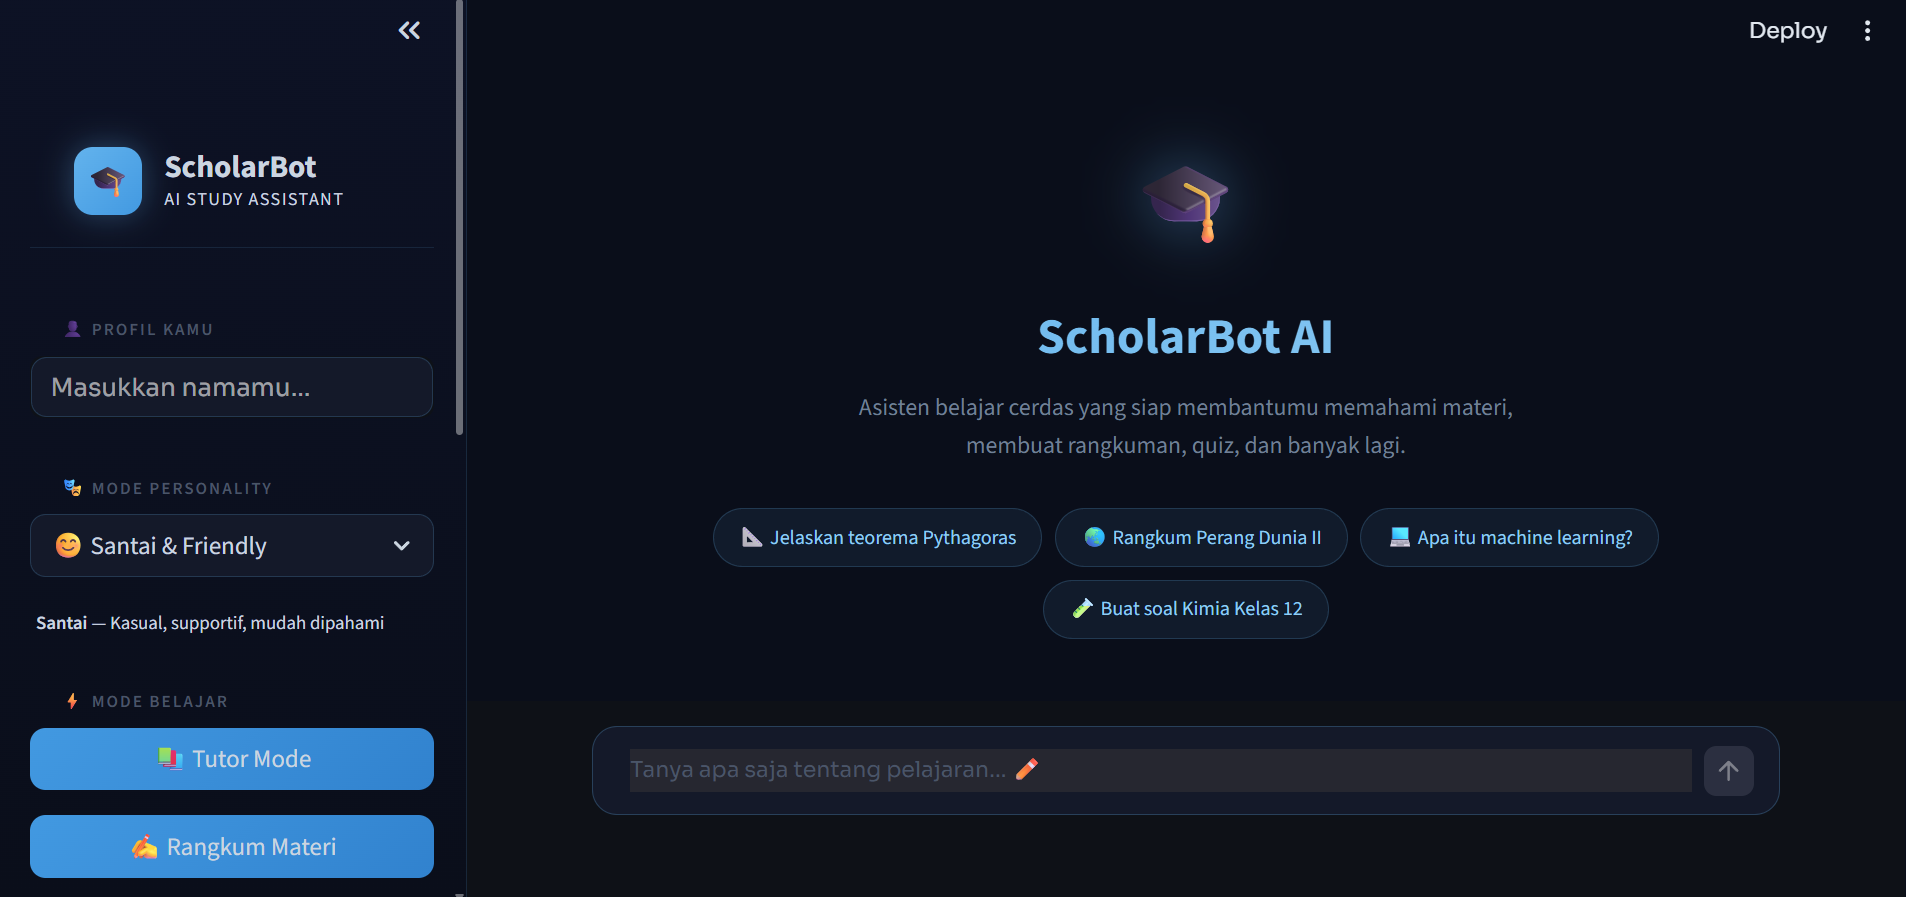
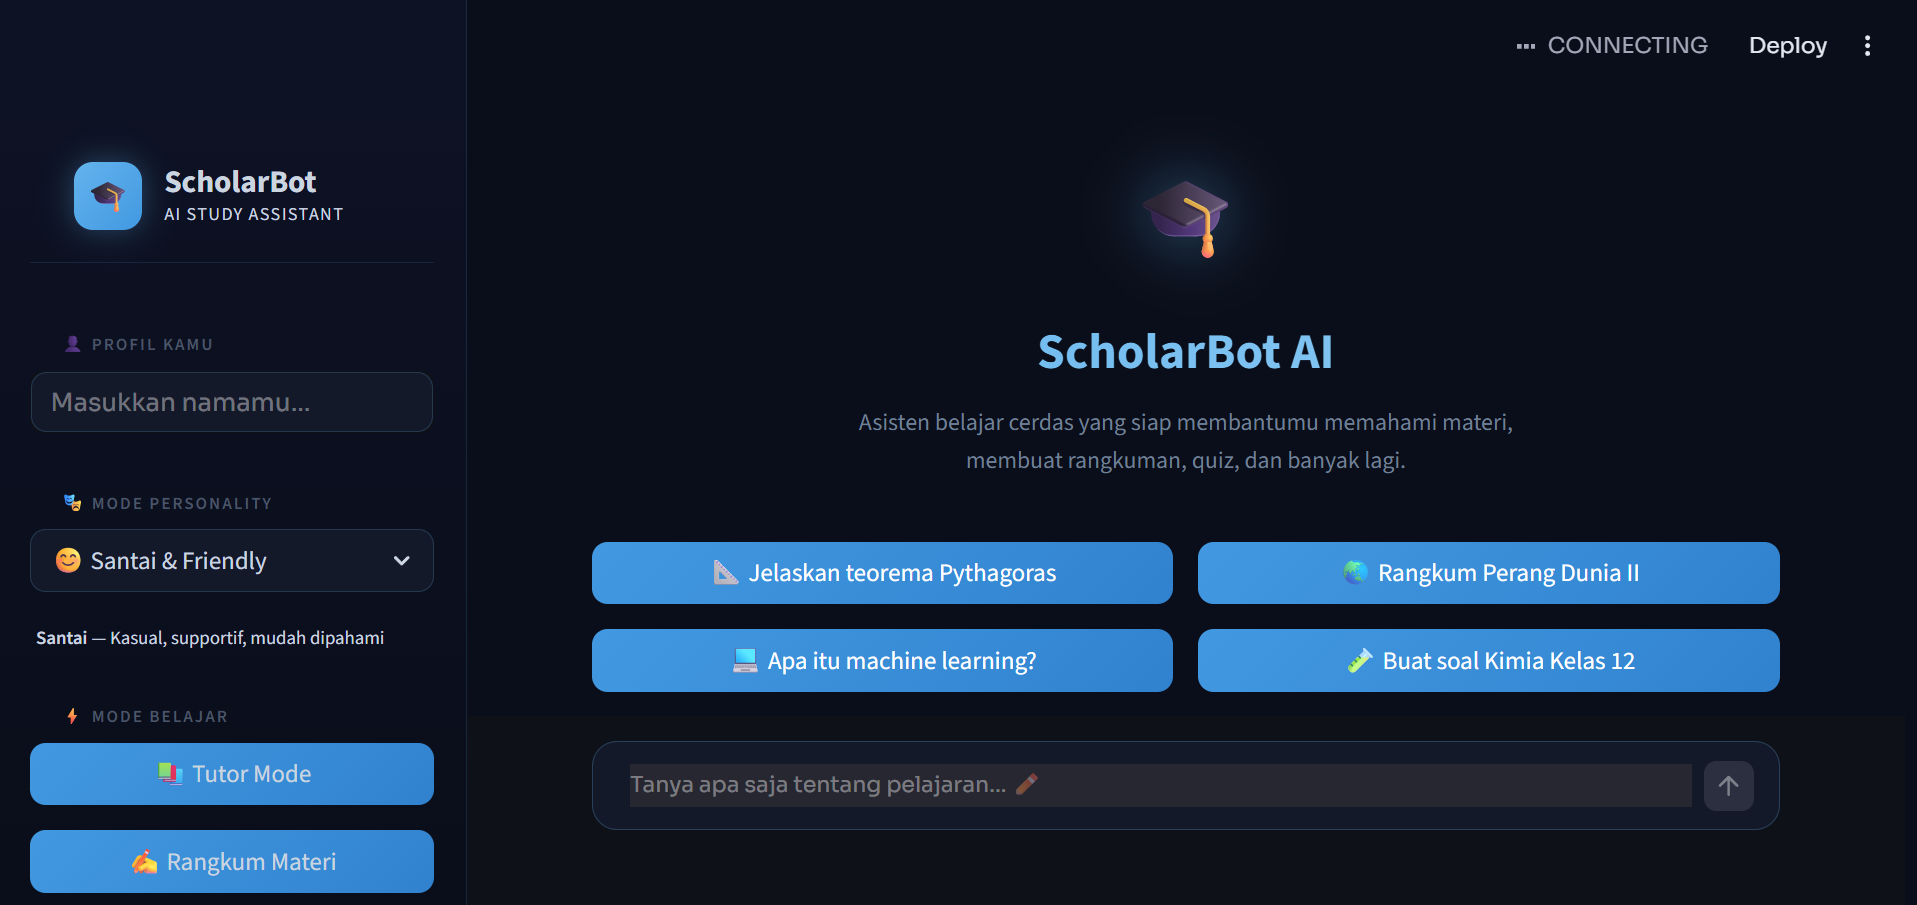
release(v3): stable ScholarBot AI lightweight educational RAG system
## Overview
Final stable release of ScholarBot AI v3 — Lightweight RAG Edition.
All v1→v2→v3 evolution merged into main branch.

## What's Included (v1 → v3 Journey)
- Modular architecture (config, core, prompts, services, storage, ui, utils)
- Groq API + Llama 3.3 70B integration
- Conversational memory with context tracking
- 4 Personality Modes + 5 Learning Modes
- v3 RAG Pipeline: document upload (.txt/.pdf), chunking, keyword retrieval
- Bug fixes: document deletion lifecycle, RAG injection logic

## README Updates
- Target pengguna & user value storytelling sections
- Developer section (Herald Michain Samuel Theo)
- Future roadmap (v3.2 → v4.0)
- Professional final-release documentation

## Security
- .env excluded from git (contains API key — local only)
- .gitignore includes .env, storage/data/, __pycache__
- No hardcoded credentials in codebase

## Files
- 30 files changed, 3,814 insertions, 612 deletions
- New: config/, core/, prompts/, services/, storage/, ui/, utils/
- Fast-forward merge from dev-v3 (no conflicts)

Refs: main stable release — ScholarBot AI v3.1 Lightweight RAG Edition

diff --git a/README.md b/README.md
@@ -106,6 +106,42 @@ Didesain dengan arsitektur **LLM-based NLP System** menggunakan Groq API + Llama
 
 ---
 
+## 🎯 Target Pengguna
+
+ScholarBot AI dirancang untuk siapa saja yang ingin belajar secara lebih cerdas dan interaktif.
+
+**Siswa SMA** yang ingin memahami materi pelajaran dengan cara yang lebih menarik dari textbook — bisa minta penjelasan ulang, buat soal latihan, atau upload catatan dari guru.
+
+**Mahasiswa** yang menghadapi materi kompleks di semester awal dan butuh AI tutor yang bisa diajak diskusi, jelasin konsep berulang kali tanpa judgment, dan bantu rangkum bahan ajaran.
+
+**Self-learner** yang belajar secara mandiri dari kursus online, buku, atau dokumen — upload materi dari internet, terus tanya langsung ke chatbot tanpa perlu buka banyak tab.
+
+**Pengguna yang butuh AI tutor interaktif** — bukan sekadar search engine, tapi bisa diajak ngobrol dua arah, dikasih soal, minta pembahasan, dan terus lanjut dari mana mereka berhenti.
+
+ScholarBot bukan pengganti guru atau buku. Tapi bisa jadi companion yang selalu tersedia kapan pun kamu butuh bantuan belajar.
+
+---
+
+## 💡 Bagaimana ScholarBot AI Membantu Pengguna
+
+ScholarBot AI dirancang untuk membuat proses belajar terasa lebih natural dan efektif.
+
+**Memahami dengan Cara Sendiri** — Kamu bisa tanya pakai bahasa sehari-hari, tanpa harus rumusin pertanyaan dalam format akademis. объясняет materi pakai kata-kata yang kamu pahami, bukan definisi dari kamus.
+
+**Latihan Tanpa Batas** — Butuh tambahan soal untuk persiapan ujian? ScholarBot bisa generate soal pilihan ganda atau essay tentang topik yang kamu指定, lengkap dengan kunci jawaban dan pembahasan.
+
+**Belajar dari Materimu Sendiri** — Upload rangkuman, catatan, slide, atau e-book dalam format TXT atau PDF. ScholarBot akan membaca dokumen tersebut dan menjawab pertanyaan berdasarkan isi materimu — bukan dari pengetahuan generik internet.
+
+**Konteks Terjaga di Setiap Percakapan** — Tidak perlu ulang-ulang penjelasan. Kamu tanya "jelaskan X", terus lanjut "kasih contoh", ScholarBot ingat konteks dari pesan sebelumnya.
+
+**Gaya Belajar yang Sesuai** — Pilih personality mode yang cocok: formal untuk belajar serius, santai untuk diskusi kasual, Gen Z untuk vibe yang lebih relatable, atau expert untuk analisis mendalam.
+
+**Interaktif dan Responsif** — Tidak monoton. Kamu bisa minta hint, minta penjelasan ulang, minta buat rangkuman, atau minta roadmap belajar — semua dalam satu chatbot yang sama.
+
+ScholarBot membuat belajar terasa seperti ngobrol dengan tutor pribadi yang tidak pernah kehabisan kesabaran.
+
+---
+
 ## 🛠 Tech Stack
 
 | Komponen | Teknologi | Deskripsi |
@@ -313,33 +349,47 @@ ScholarBot memahami hubungan antar pesan dengan:
 
 ---
 
-## 🔄 Roadmap
+## 🚀 Future Improvements
 
-### v3.1 — Stabilization (Current)
-- ✅ Document upload (.txt, .pdf)
-- ✅ Text extraction (UTF-8, pypdf)
-- ✅ Paragraph & size chunking
-- ✅ Keyword-based retrieval
-- ✅ RAG context injection
-
-### v3.2 — Enhancement (Future)
+### v3.2 — Enhancement (Planned)
 - [ ] Multi-document retrieval (cross-document scoring)
 - [ ] Better chunking strategies (semantic boundary detection)
 - [ ] Document summarization sebelum chunking
 - [ ] Re-ranking dengan lebih banyak faktor
 - [ ] UI: preview dokumen yang di-upload
 - [ ] UI: search dalam dokumen
+- [ ] Streaming responses untuk experience lebih cepat
 
-### v4.0 — Future (Not Planned)
-- [ ] Vector database (Chroma, FAISS) untuk semantic search
-- [ ] Multi-modal (gambar, audio, video)
-- [ ] Citations dengan inline reference
-- [ ] Export chat sebagai PDF/Word
-- [ ] Real-time collaboration (multi-user sessions)
+### v4.0 — Advanced (Future)
+- [ ] Vector database integration (ChromaDB / FAISS)
+- [ ] Semantic retrieval dengan embedding model
+- [ ] Multi-agent workflow (specialized tutors)
+- [ ] Persistent memory across sessions
+- [ ] Voice interaction (text-to-speech)
+- [ ] Mobile optimization
+- [ ] Inline citations dengan document reference
+- [ ] Chat export as PDF/Word document
+
+### Long-term Vision
+ScholarBot dirancang untuk berevolusi menjadi intelligent learning companion yang bisa beradaptasi dengan gaya belajar setiap pengguna — dari siswa SMA sampai profesional yang sedang reskilling.
 
 ---
 
-## 🧪 Use Case — Belajar Dengan RAG
+## 👨💻 Developer
+
+**Developed by:** Herald Michain Samuel Theo
+
+📧 **Contact:** [heraldmsamueltheo@gmail.com](mailto:heraldmsamueltheo@gmail.com)
+
+**Fields of Interest:**
+- AI Engineering
+- Conversational AI
+- Intelligent Tutoring Systems
+- Lightweight RAG Systems
+
+---
+
+## 🐛 Troubleshooting
 
 ### Scenario 1: Belajar Materi Sekolah
 ```
@@ -447,6 +497,10 @@ Dibuat dengan 💜 untuk komunitas belajar Indonesia.
 
 ---
 
-**Versi:** v3.1 (Lightweight RAG Edition)
+**Versi:** v3.1 (Lightweight RAG Edition) — Stable Release
 **Tanggal:** Mei 2026
 **Status:** ✅ Production-Ready
+
+---
+
+## 🧪 Use Case — Belajar Dengan RAG
